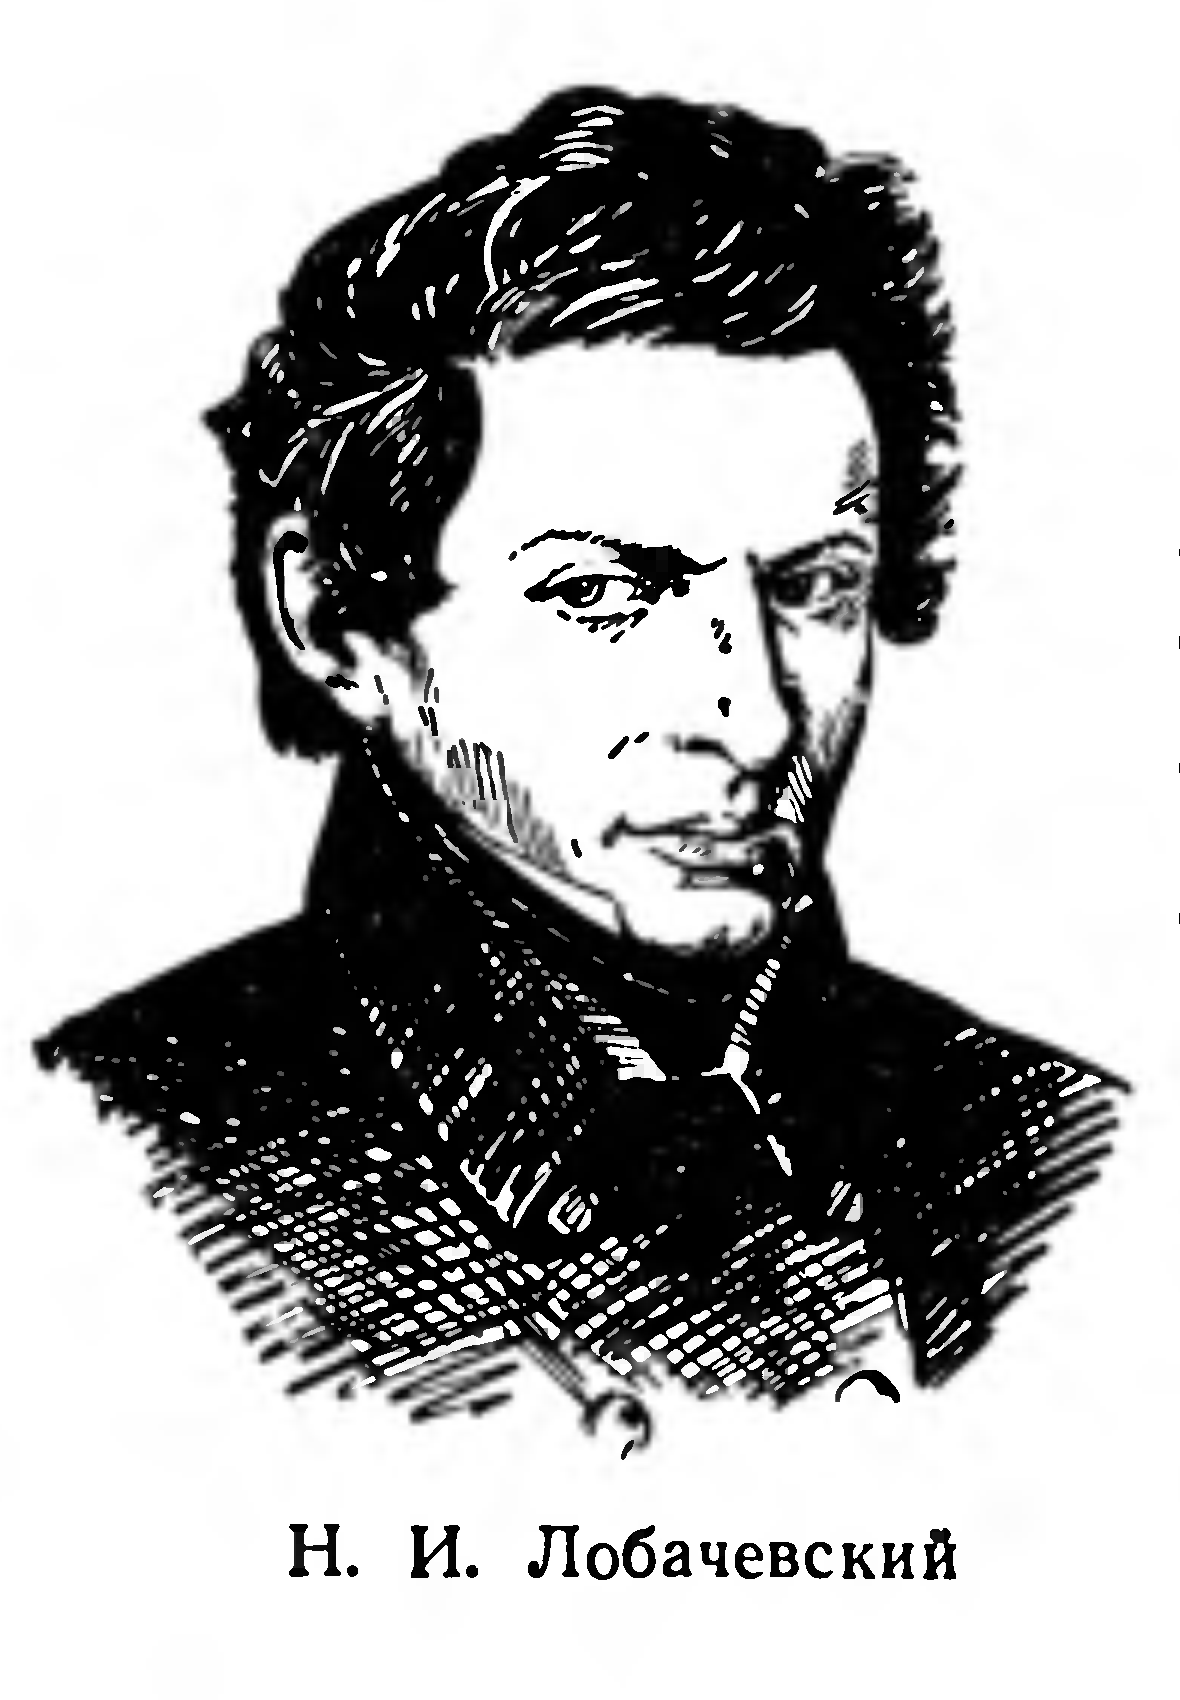
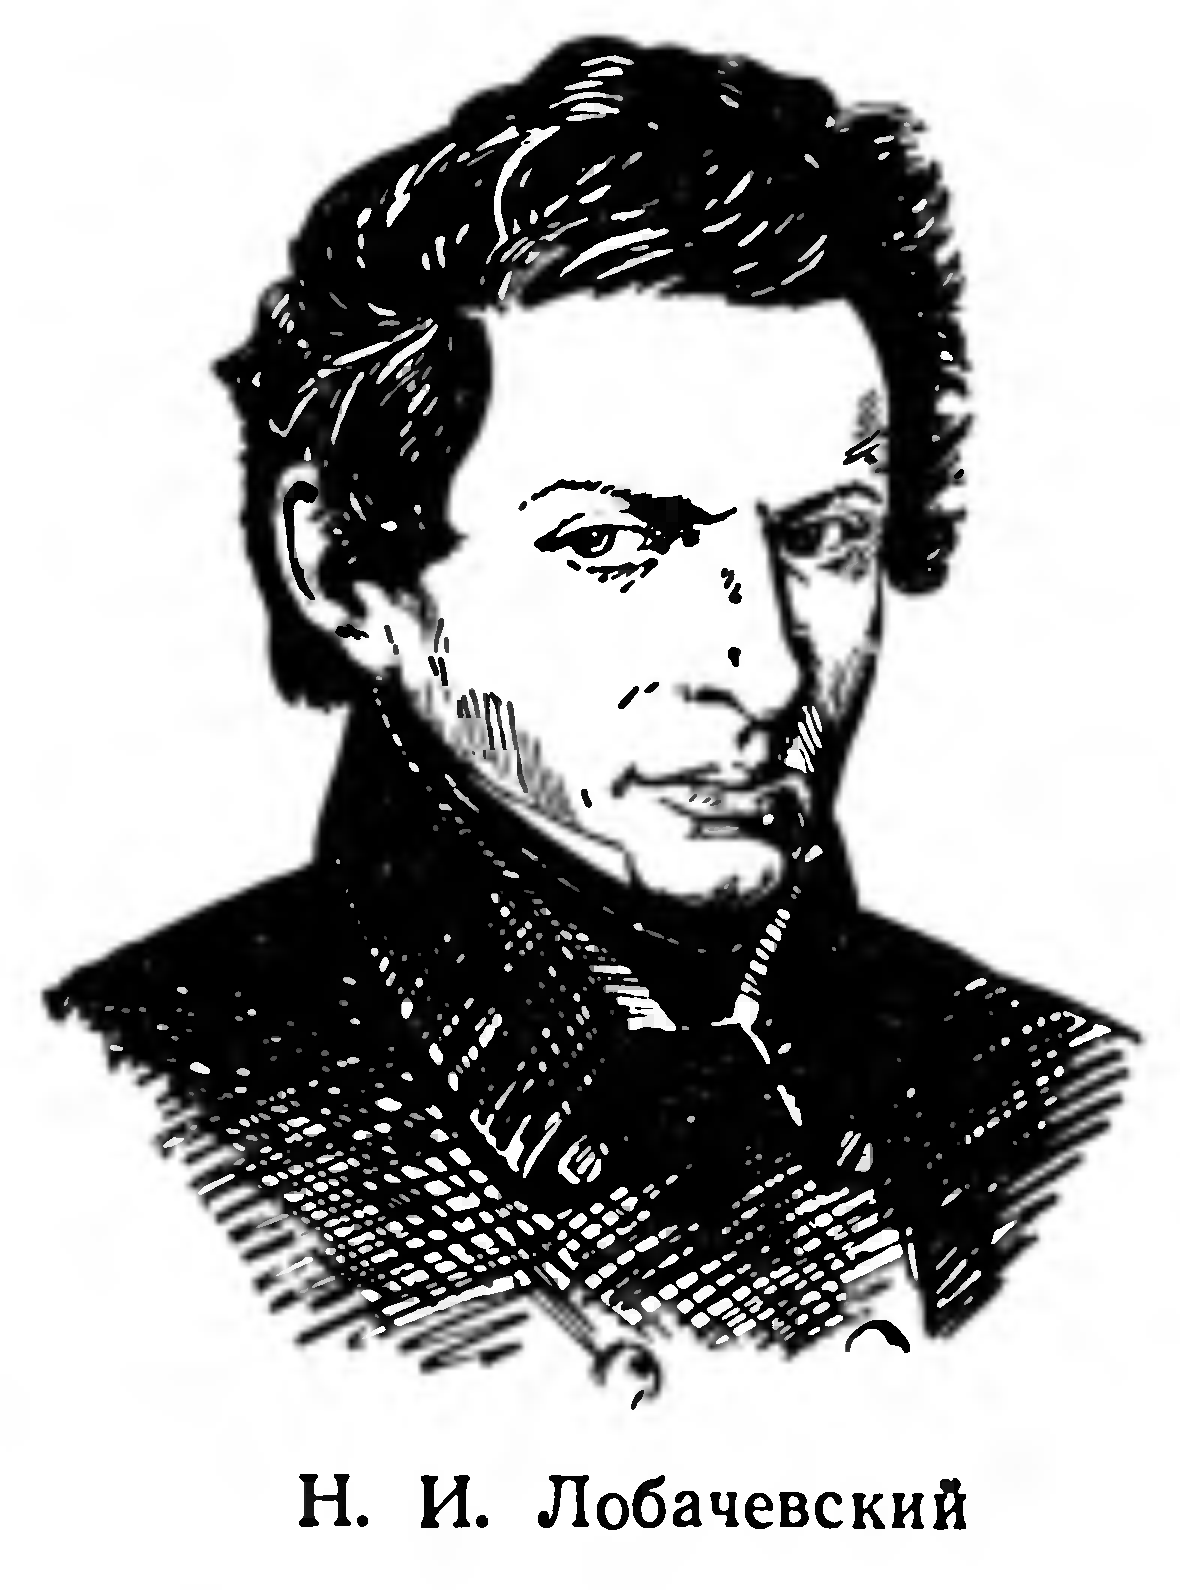
klopskiy_stereometria: 9 рисунков вырезаны заново — убраны обрывки строк у кромки (GF107, п.131)
apokrif figures recrop --from-crop-check, codex:gpt-5.6-sol@medium.
Стр. 162, 170, 188, 197, 202, 204, 208, 226, 231; повторная проверка
кадров чистая, ссылки целы. p202/p204/p208 переименованы в fig1 по
общему шаблону имён.

Claude-Session: https://claude.ai/code/session_016LgTLBejBq8sH5fBJep17c

diff --git a/stereometria/klopskiy/klopskiy_stereometria_g07_s04_kratkaya_svodka_svedeniy_po_kursu_planimetrii.md b/stereometria/klopskiy/klopskiy_stereometria_g07_s04_kratkaya_svodka_svedeniy_po_kursu_planimetrii.md
@@ -367,7 +367,7 @@ $$
 (\triangle A_1B_1C_1\cong\triangle ABC).
 $$
 
-![Рис. 133](assets/klopskiy_stereometria_g07_s04_kratkaya_svodka_svedeniy_po_kursu_planimetrii/p202-fig133.png)
+![Рис. 133](assets/klopskiy_stereometria_g07_s04_kratkaya_svodka_svedeniy_po_kursu_planimetrii/p202-fig1.png)
 
 ## 3. Соотношения между элементами треугольника
 
@@ -479,7 +479,7 @@ $$
 
 8. **Т.** Любая прямая, проходящая через центр окружности, является ее осью симметрии.
 
-![Рис. 138](assets/klopskiy_stereometria_g07_s04_kratkaya_svodka_svedeniy_po_kursu_planimetrii/p204-fig138.png)
+![Рис. 138](assets/klopskiy_stereometria_g07_s04_kratkaya_svodka_svedeniy_po_kursu_planimetrii/p204-fig1.png)
 
 ![Рис. 139](assets/klopskiy_stereometria_g07_s04_kratkaya_svodka_svedeniy_po_kursu_planimetrii/p204-fig139.png)
 
@@ -608,7 +608,7 @@ $$
 
 ![Рис. 146](assets/klopskiy_stereometria_g07_s04_kratkaya_svodka_svedeniy_po_kursu_planimetrii/p208-fig146.png)
 
-![Рис. 147](assets/klopskiy_stereometria_g07_s04_kratkaya_svodka_svedeniy_po_kursu_planimetrii/p208-fig147.png)
+![Рис. 147](assets/klopskiy_stereometria_g07_s04_kratkaya_svodka_svedeniy_po_kursu_planimetrii/p208-fig1.png)
 
 При гомотетии с коэффициентом $k$ все расстояния между точками умножаются на $|k|$, т. е. $|X_1Y_1|=|k|\cdot|XY|$.
 
